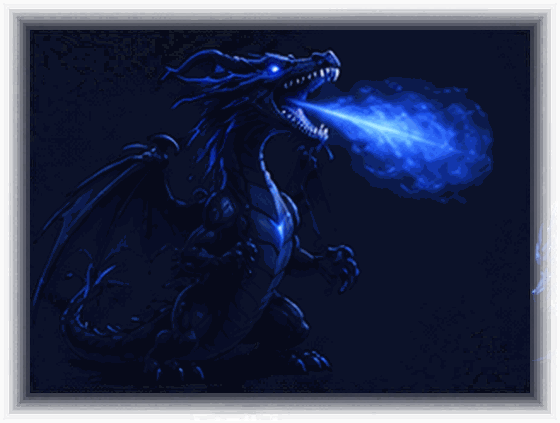
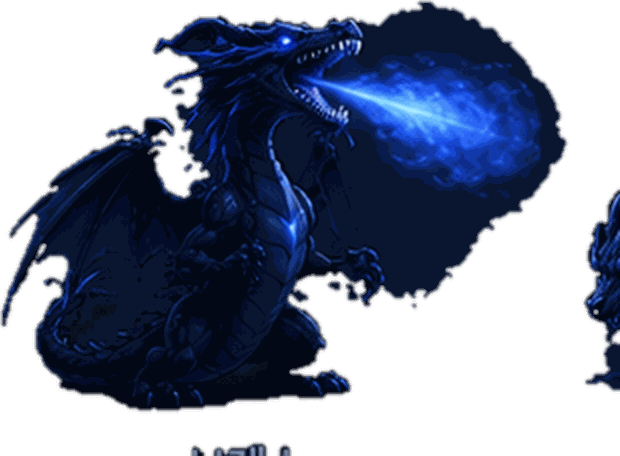
Sit the dragon on the panel and fit the runner screen to the phone
Four fixes to how the dragon and the runner screen behave.

Cut the sprite properly. The previous slice kept the artwork's own dark
mist because it only feathered the crop edge, and that mist showed as a
shadow wherever the page background is lighter than the sheet's. Now the
background is flood-filled inward from the border and anything it cannot
reach is treated as dragon, so the near-black body survives while the
mist is dropped. Background left inside opaque areas: 0.6%.

The dragon now sleeps draped over the panel's top edge instead of
occupying its own block, and it is absolutely positioned so it costs no
layout height.

The flying pose is gone. After the breath the dragon simply fades out
and stays away until the run resets.

The runner screen no longer scrolls in either direction. Controls size
with clamp() against viewport height, and the panel drops its top margin
once the dragon leaves so the progress block inherits that space. On a
375x667 phone nothing scrolls and nothing is clipped, idle or running;
the panel keeps an internal scroll only as a last resort on anything
shorter.

diff --git a/docs/app.css b/docs/app.css
@@ -550,49 +550,77 @@ input:focus-visible{outline:none;border-color:var(--accent-line);background:var(
 @media (min-width:700px){.mascot img{width:min(320px,58%)}}
 
 /* ---------- 20. 실행 화면의 용 ----------
-   수면 → 브레스 → 비행 세 포즈가 같은 자리에서 교차 페이드된다.
-   스프라이트 배경이 페이지 배경과 같은 색이라 패널 밖(페이지 위)에 둔다. */
-.dragon-stage{position:relative;height:148px;margin:-2px 0 0;pointer-events:none}
+   패널 위쪽 모서리에 걸쳐 잔다. absolute 라 레이아웃 높이를 먹지 않는다.
+   실행하면 깨어나 브레스를 쏘고, 끝나면 흐려지며 사라진다. */
+.dragon-stage{
+  position:absolute;left:50%;transform:translateX(-50%);
+  bottom:calc(100% - var(--dg-sink));      /* 아래쪽 일부가 패널에 걸친다 */
+  width:var(--dg-w);height:calc(var(--dg-w) * .47);
+  z-index:2;pointer-events:none;
+  --dg-w:min(clamp(150px,26dvh,232px),62%);--dg-sink:26px}
 .dragon-glow{
-  position:absolute;left:50%;bottom:10px;transform:translateX(-50%);
-  width:min(290px,78%);height:72px;border-radius:50%;
-  background:radial-gradient(ellipse,rgba(110,139,255,.24) 0%,rgba(110,139,255,0) 70%);
-  filter:blur(18px);opacity:.75;transition:opacity .6s var(--ease),background .6s var(--ease)}
+  position:absolute;left:50%;bottom:4px;transform:translateX(-50%);
+  width:86%;height:52px;border-radius:50%;
+  background:radial-gradient(ellipse,rgba(110,139,255,.22) 0%,rgba(110,139,255,0) 70%);
+  filter:blur(15px);opacity:.7;
+  transition:opacity .6s var(--ease),background .6s var(--ease)}
 .dg{
-  position:absolute;inset:0;width:100%;height:100%;object-fit:contain;
-  opacity:0;transition:opacity .55s var(--ease);
-  filter:drop-shadow(0 0 12px rgba(110,139,255,.28))}
+  position:absolute;left:0;bottom:0;width:100%;height:auto;
+  opacity:0;transition:opacity .6s var(--ease);
+  filter:drop-shadow(0 3px 10px rgba(4,7,16,.55))}
 .dragon-stage[data-state="sleep"] .dg-sleep,
-.dragon-stage[data-state="breath"] .dg-breath,
-.dragon-stage[data-state="fly"] .dg-fly{opacity:1}
+.dragon-stage[data-state="breath"] .dg-breath{opacity:1}
 
 /* 잠든 동안의 느린 호흡 */
 .dragon-stage[data-state="sleep"] .dg-sleep{animation:dgSleep 5.5s var(--ease) infinite}
-@keyframes dgSleep{0%,100%{transform:scale(1)}50%{transform:scale(1.018)}}
+@keyframes dgSleep{0%,100%{transform:scale(1)}50%{transform:scale(1.02)}}
 
-/* 포즈마다 그림 안에서 차지하는 비율이 달라, 보이는 크기를 맞춰 준다
-   (contain 이라 세로가 긴 비행 포즈가 가장 작게 잡힌다) */
-.dg-breath{transform:scale(1.06)}
-.dg-fly{transform:scale(1.12)}
-
-/* 브레스: 짧게 앞으로 내지르고 빛이 번진다 */
+/* 브레스: 세로로 긴 포즈라 아래를 기준으로 키운다 */
+.dg-breath{transform-origin:50% 100%;transform:scale(1.5)}
 .dragon-stage[data-state="breath"] .dg-breath{animation:dgBreath 2.2s var(--ease)}
 @keyframes dgBreath{
-  0%{transform:scale(1.045)}
-  18%{transform:scale(1.095)}
-  42%{transform:scale(1.068)}
-  100%{transform:scale(1.06)}}
+  0%{transform:scale(1.46)}
+  18%{transform:scale(1.56)}
+  42%{transform:scale(1.51)}
+  100%{transform:scale(1.5)}}
 .dragon-stage[data-state="breath"] .dragon-glow{
-  opacity:1;background:radial-gradient(ellipse,rgba(150,190,255,.40) 0%,rgba(110,139,255,0) 70%);
+  opacity:1;background:radial-gradient(ellipse,rgba(150,190,255,.38) 0%,rgba(110,139,255,0) 70%);
   animation:dgFlash 2.2s var(--ease)}
-@keyframes dgFlash{0%{opacity:.5}16%{opacity:1}55%{opacity:.85}100%{opacity:.75}}
+@keyframes dgFlash{0%{opacity:.5}16%{opacity:1}55%{opacity:.8}100%{opacity:0}}
 
-/* 비행: 아주 얕게 위아래로 */
-.dragon-stage[data-state="fly"] .dg-fly{animation:dgFly 5s var(--ease) infinite}
-@keyframes dgFly{0%,100%{transform:translateY(0) scale(1.12)}50%{transform:translateY(-7px) scale(1.12)}}
-.dragon-stage[data-state="fly"] .dragon-glow{opacity:.5}
+/* 학습이 도는 동안에는 자리를 비운다 */
+.dragon-stage[data-state="gone"] .dg,
+.dragon-stage[data-state="gone"] .dragon-glow{opacity:0}
 
-@media (min-width:700px){.dragon-stage{height:180px}}
+@media (min-width:700px){.dragon-stage{--dg-w:min(280px,54%);--dg-sink:30px}}
+
+/* ---------- 21. 실행 화면은 한 화면에 고정 ----------
+   버튼까지 전부 보이도록 화면 높이에 맞춰 컨트롤이 줄어든다.
+   계정 화면은 그대로 스크롤된다(마스코트가 아래에 있다). */
+body:has(#screen-runner:not([hidden])){overflow:hidden}
+body:has(#screen-runner:not([hidden])) main{
+  height:100vh;height:100dvh;min-height:0;overflow:hidden;
+  padding-top:calc(14px + env(safe-area-inset-top));
+  padding-bottom:calc(14px + env(safe-area-inset-bottom));
+  gap:clamp(7px,1.4dvh,16px)}
+#screen-runner{min-height:0;gap:clamp(7px,1.4dvh,16px)}
+#screen-runner .status{font-size:12.5px;line-height:1.4}
+#screen-runner .panel{padding:clamp(11px,2dvh,22px);gap:clamp(7px,1.6dvh,18px)}
+/* 용이 자는 동안에는 패널을 내려 상태 텍스트를 가리지 않게 하고,
+   용이 사라지면 그 공간을 진행률에 돌려준다. */
+#screen-runner .panel{margin-top:0;transition:margin-top .6s var(--ease)}
+#screen-runner:has(#dragon-stage:not([data-state="gone"])) .panel{margin-top:clamp(0px,7dvh,64px)}
+#screen-runner .field{gap:clamp(5px,.9dvh,9px)}
+#screen-runner .picker{min-height:clamp(44px,6.2dvh,58px)}
+#screen-runner input[type=number]{height:clamp(40px,5.4dvh,50px)}
+#screen-runner .seg label{min-height:clamp(34px,4.8dvh,46px)}
+#screen-runner #run{min-height:clamp(44px,5.9dvh,52px)}
+/* 진행률이 뜨면 그만큼 위쪽이 더 조여야 하므로 자체도 납작하게 */
+#screen-runner .progress{padding:clamp(12px,1.8dvh,20px)}
+#screen-runner .pct{font-size:clamp(28px,4.4dvh,44px)}
+#screen-runner .track{margin-top:clamp(9px,1.5dvh,18px)}
+/* 마지막 안전장치: 그래도 넘치면 잘리지 않고 패널만 스크롤된다 */
+#screen-runner .panel{min-height:0;overflow-y:auto;overscroll-behavior:contain}
 
 @media (prefers-reduced-motion:reduce){
   *,*::before,*::after{animation-duration:.001ms!important;animation-iteration-count:1!important;

diff --git a/docs/index.html b/docs/index.html
@@ -64,16 +64,14 @@
 </div>
 <p id="status" class="status"></p>
 
-<!-- 클래스 위의 용. 대기 중엔 자고, 실행하면 브레스를 쏜 뒤 날아다닌다.
+<section class="panel" id="runner-panel">
+<!-- 패널 위쪽 모서리에 걸쳐 자는 용. 자리를 차지하지 않도록 absolute 로 띄운다.
      장식이라 aria-hidden이며 상태는 진행률 칩을 따라갈 뿐 스스로 갖지 않는다. -->
 <div class="dragon-stage" id="dragon-stage" data-state="sleep" aria-hidden="true">
 <span class="dragon-glow"></span>
-<img class="dg dg-sleep" src="./dragon-sleep.png" alt="" width="460" height="277" decoding="async" fetchpriority="low">
-<img class="dg dg-breath" src="./dragon-breath.png" alt="" width="560" height="423" decoding="async" fetchpriority="low">
-<img class="dg dg-fly" src="./dragon-fly.png" alt="" width="520" height="473" decoding="async" fetchpriority="low">
+<img class="dg dg-sleep" src="./dragon-sleep.png" alt="" width="520" height="244" decoding="async" fetchpriority="low">
+<img class="dg dg-breath" src="./dragon-breath.png" alt="" width="620" height="456" decoding="async" fetchpriority="low">
 </div>
-
-<section class="panel" id="runner-panel">
 <div class="field">
 <span class="lbl" id="lbl-class">클래스</span>
 <select id="class" class="sr-only" tabindex="-1" aria-hidden="true" disabled></select>

diff --git a/docs/app.js b/docs/app.js
@@ -606,10 +606,10 @@ function syncDragon() {
     // 잠에서 깨는 순간에만 브레스를 쏜다. preparing 은 여러 번 들어올 수 있다.
     if (pose === 'sleep') {
       setDragon('breath');
-      dragonTimer = setTimeout(() => setDragon('fly'), 2200);
+      dragonTimer = setTimeout(() => setDragon('gone'), 2200);
     }
   } else if (pose !== 'breath') {
-    setDragon('fly');   // 브레스 중이면 그게 끝난 뒤 타이머가 넘긴다
+    setDragon('gone');   // 브레스 중이면 그게 끝난 뒤 타이머가 넘긴다
   }
 }
 const dragonWatch = new MutationObserver(syncDragon);
